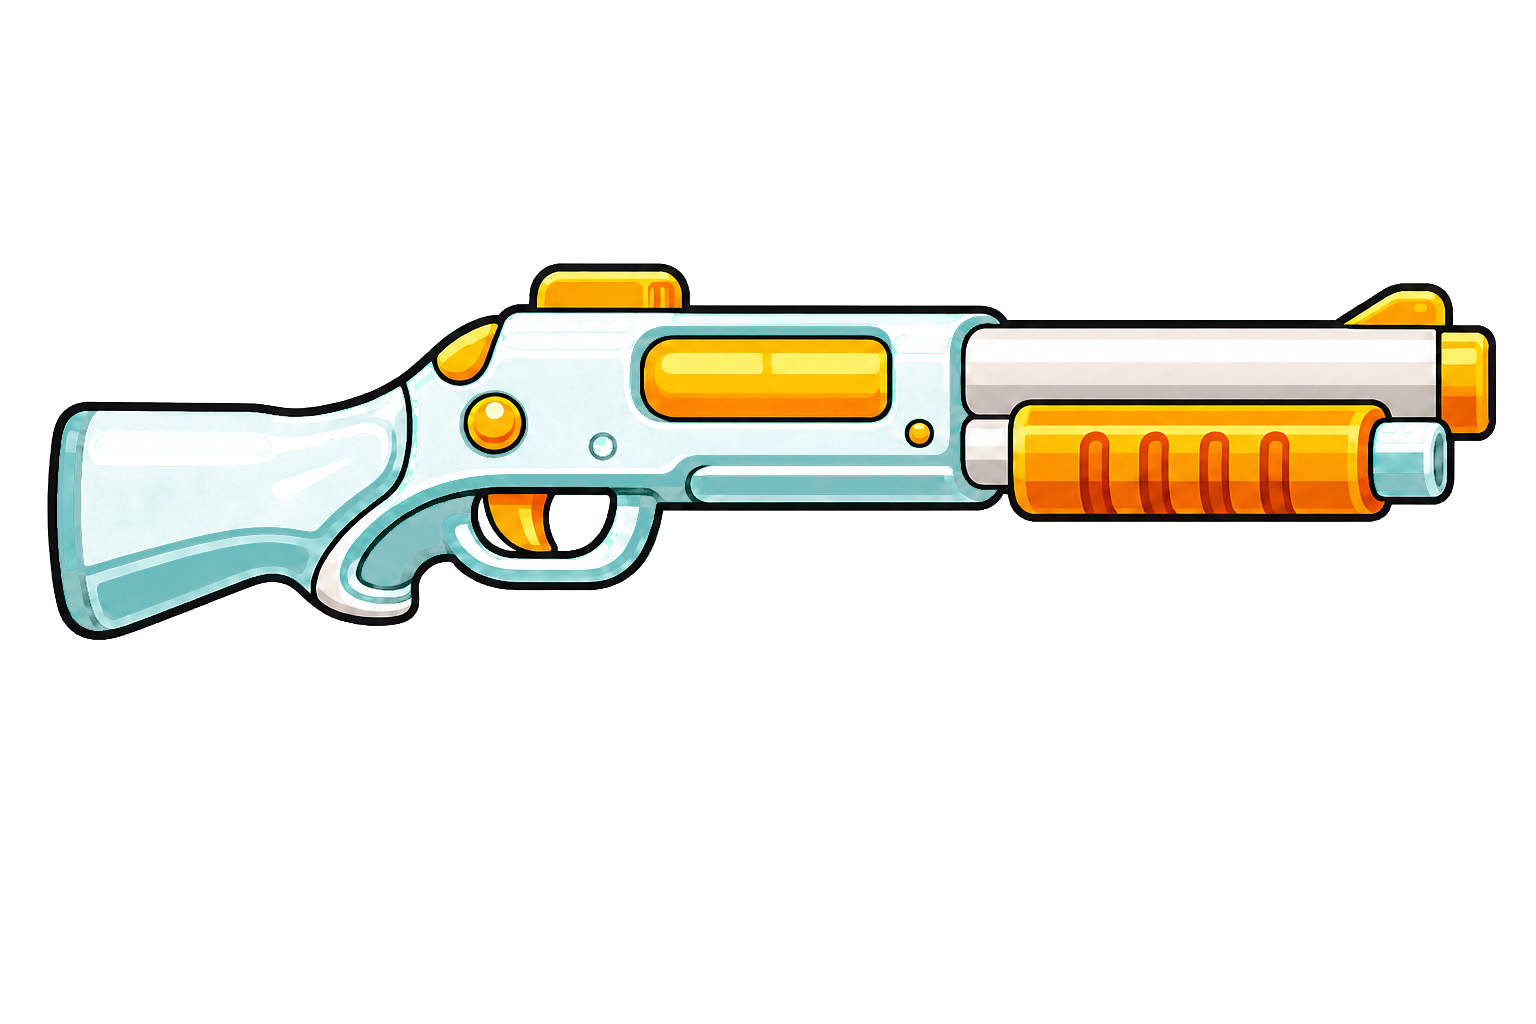
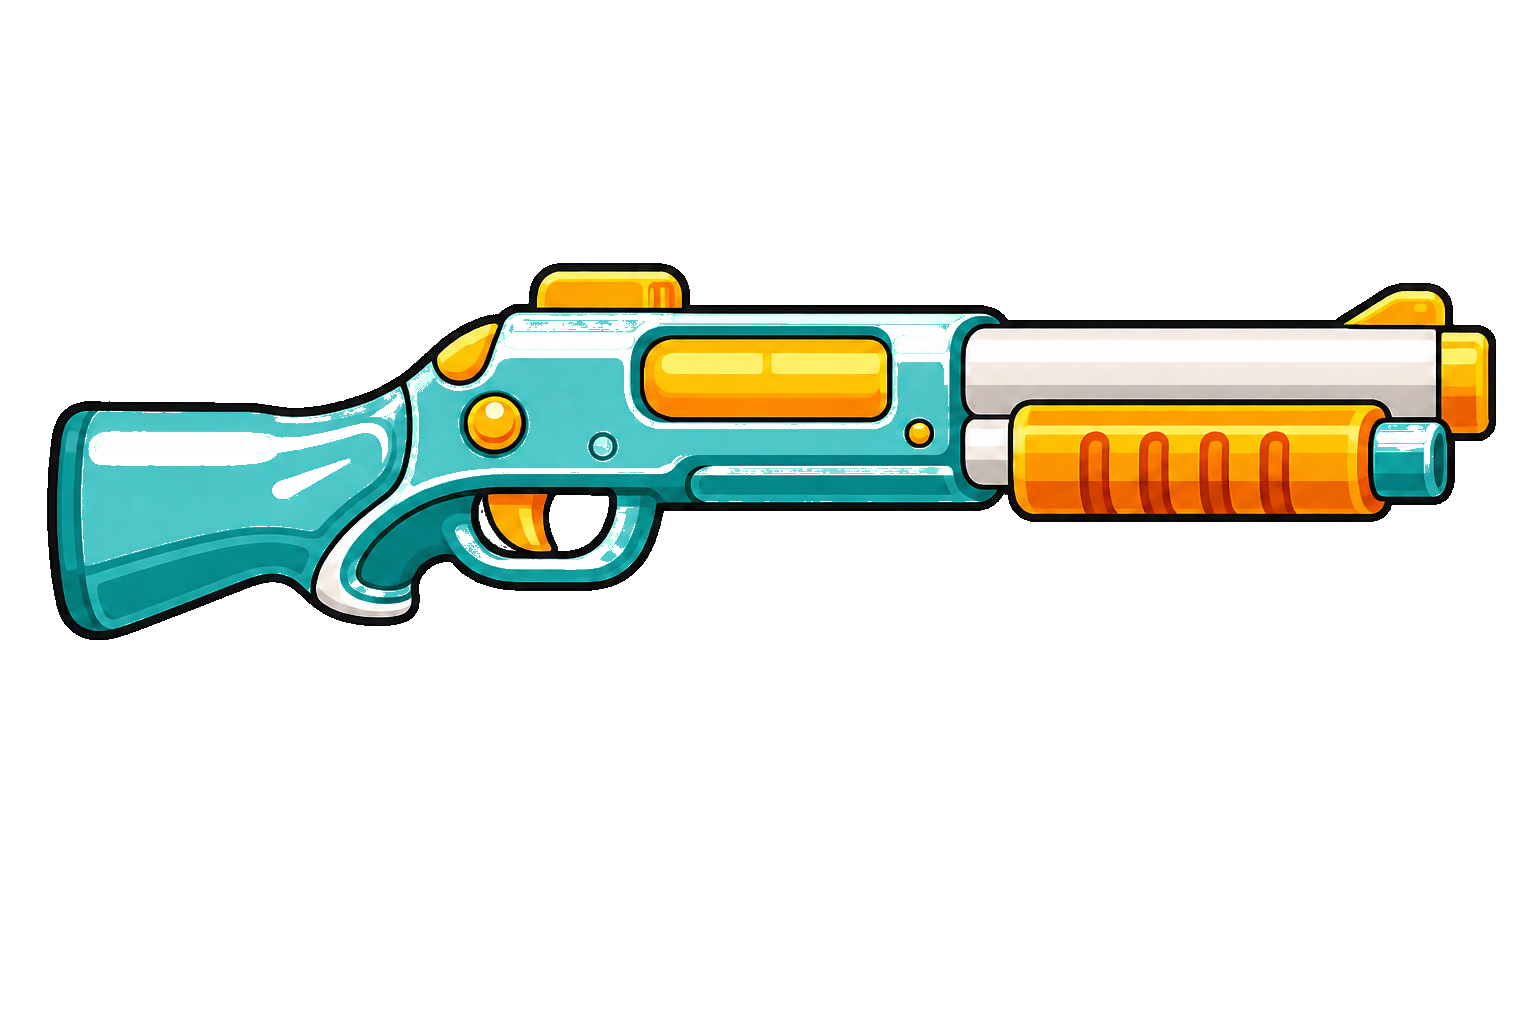
업데이트

Changed region(s): [[0.0312, 0.3125, 0.6562, 0.625], [0.875, 0.4062, 0.9688, 0.5]]

diff --git a/index.html b/index.html
@@ -593,6 +593,8 @@
     clown_doll:{name:'피코',fullName:'광대인형 · 피코',weapon:'spear',weaponName:'팝업 창',type:'치명타형',personality:'장난을 좋아하고 예측하기 어렵다. 전투 중에도 웃으며 엉뚱한 행동을 한다.',feature:'운이 터지면 순간적으로 높은 광역 피해를 냄.',stats:{hp:45,atk:58,spd:62,aspd:58,crit:15},passive:'clown',passiveName:'깜짝쇼',passiveDesc:'치명타 발생 시 20% 확률로 작은 폭발을 일으켜 주변 적에게 추가 피해.'},
     toy_knight:{name:'랜슬롯',fullName:'장난감기사 · 랜슬롯',weapon:'hammer',weaponName:'수호 해머',type:'근접 전투형',personality:'정의감이 강하고 진지하다. 자신이 진짜 기사라고 굳게 믿으며 약한 장난감을 보호하려 한다.',feature:'칼·창·해머 같은 근거리 무기와 궁합이 좋음.',stats:{hp:68,atk:65,spd:45,aspd:45,crit:7},passive:'knight',passiveName:'기사도',passiveDesc:'캐릭터 주변 일정 거리 안의 적에게 주는 피해 +15%.'}
   };
+  const ALLY_SPECIAL_WEAPONS=['red_moon','revolver','shotgun'];
+  function pickAllyWeapon(allyChar){return Math.random()<.35?ALLY_SPECIAL_WEAPONS[Math.floor(rnd(ALLY_SPECIAL_WEAPONS.length))]:CHARS[allyChar].weapon;}
   /* Character definitions are the single immutable source used by selection, player and AI. */
   const CHARACTER_BASE_STATS=Object.freeze(Object.fromEntries(Object.entries(CHARS).map(([id,c])=>[
     id,Object.freeze(Object.assign({hp:50,atk:50,spd:50,aspd:50,crit:5},c.stats||{}))
@@ -719,6 +721,21 @@
     hammer_stun:{name:'충격 스프링',icon:'💫',desc:'기절시간 +0.3초',weapon:'hammer',max:3,apply:p=>p.stun+=.3},
     hammer_quake:{name:'지진 장난감판',icon:'🌋',desc:'60% 충격파 2회',weapon:'hammer',max:1,apply:p=>p.flags.quake=true},
     hammer_fast:{name:'가벼운 손잡이',icon:'⏩',desc:'해머 게이지 속도 +18%',weapon:'hammer',max:3,apply:p=>p.weaponCd/=1.18},
+    revolver_hard:{name:'강화 탄두',icon:'🟡',desc:'리볼버 공격력 +18%',weapon:'revolver',max:5,apply:p=>p.weaponDamage*=1.18},
+    revolver_scope:{name:'정밀 조준경',icon:'🔭',desc:'리볼버 사거리 +20%',weapon:'revolver',max:3,apply:p=>p.weaponRange*=1.20},
+    revolver_speed:{name:'신속 재장전',icon:'⏩',desc:'리볼버 게이지 속도 +15%',weapon:'revolver',max:3,apply:p=>p.weaponCd/=1.15},
+    revolver_double:{name:'쌍발 약실',icon:'↔',desc:'35% 확률로 한 발 추가 격발',weapon:'revolver',max:1,apply:p=>p.flags.revolverDouble=true},
+    revolver_crit:{name:'급소 조준',icon:'🎯',desc:'치명타 확률 +10%',weapon:'revolver',max:2,apply:p=>p.crit=Math.min(.85,(p.crit||0)+.10)},
+    shotgun_hard:{name:'강화 산탄',icon:'🟠',desc:'샷건 공격력 +15%',weapon:'shotgun',max:5,apply:p=>p.weaponDamage*=1.15},
+    shotgun_pellets:{name:'추가 탄피',icon:'📦',desc:'샷건 산탄 수 +1',weapon:'shotgun',max:3,apply:p=>p.extraShots++},
+    shotgun_scope:{name:'넓은 총열',icon:'📏',desc:'샷건 사거리 +18%',weapon:'shotgun',max:3,apply:p=>p.weaponRange*=1.18},
+    shotgun_speed:{name:'퀵드로우',icon:'⏩',desc:'샷건 게이지 속도 +15%',weapon:'shotgun',max:3,apply:p=>p.weaponCd/=1.15},
+    shotgun_crit:{name:'급소 조준',icon:'🎯',desc:'치명타 확률 +8%',weapon:'shotgun',max:3,apply:p=>p.crit=Math.min(.85,(p.crit||0)+.08)},
+    redmoon_whet:{name:'붉은 숫돌',icon:'⚔',desc:'레드 문 공격력 +20%',weapon:'red_moon',max:5,apply:p=>p.weaponDamage*=1.20},
+    redmoon_range:{name:'긴 칼날 블록',icon:'📏',desc:'레드 문 베기 범위 +18%',weapon:'red_moon',max:3,apply:p=>p.weaponRange*=1.18},
+    redmoon_fast:{name:'고속 손잡이',icon:'⏩',desc:'레드 문 게이지 속도 +15%',weapon:'red_moon',max:3,apply:p=>p.weaponCd/=1.15},
+    redmoon_combo:{name:'연속 베기 태엽',icon:'✖',desc:'한 공격의 베기 횟수 +1',weapon:'red_moon',max:3,apply:p=>p.extraAttacks++},
+    redmoon_crit:{name:'붉은 달빛',icon:'🌙',desc:'치명타 피해량 +25%',weapon:'red_moon',max:2,apply:p=>p.critMul+=.25},
     overcharge:{name:'과충전 태엽',icon:'⚡',desc:'5번째 공격 피해 +100%',rare:true,max:1,apply:p=>p.flags.overcharge=true},
     crown:{name:'장난감 왕관',icon:'👑',desc:'보스 피해 +25%',rare:true,max:1,apply:p=>p.bossMul=1.25},
     invincible:{name:'무적 비눗방울',icon:'🫧',desc:'체력 30% 이하 5초 무적 1회',rare:true,max:1,apply:p=>p.flags.invincible=true},
@@ -1747,6 +1764,7 @@
     return c;
   }
   const STAGE3_BGCACHE={};
+  const STAGE3_ASPECT_CACHE={};
   function stage3Img(key){
     if(STAGE3_BGCACHE[key]) return STAGE3_BGCACHE[key];
     const im=IMG[DATA.stage3mobs?.[key]];
@@ -2952,7 +2970,7 @@
   function startGame(char){deferredRewardUIs.length=0;stopGameLoop();cancelAnimationFrame(previewRAF);state='play';showScreen(null);AudioMgr.bgm(selectedMode==='escape'?(selectedStage===2?'factoryescape':'escape'):selectedStage===1?'jungle':(selectedStage===3&&selectedMode==='defense')?'partswarehouse':'toybox');const diff=DIFFICULTIES[selectedDiff];CORE.x=WORLD/2;CORE.y=WORLD/2;CORE.vx=CORE.vy=0;CORE.maxHp=diff.core;CORE.hp=CORE.maxHp;
     const isEscape=selectedMode==='escape';if(isEscape){ESCAPE.bake();ESCAPE.resetRun();}
     const startX=isEscape?ESCAPE.cx:CORE.x,startY=isEscape?ESCAPE.startY:CORE.y+230;
-    const p=makeFighter(char,startX,startY,true,selectedWeapon),pool=CHAR_ORDER.filter(k=>k!==char),partyN=clamp(selectedParty??3,0,3),allies=[];for(let i=0;i<partyN;i++){const ang=i/Math.max(1,partyN)*TAU-Math.PI/2,allyChar=pool[i],a=makeFighter(allyChar,startX+Math.cos(ang)*(90+i*40),startY+Math.sin(ang)*(90+i*40)+40,false,CHARS[allyChar].weapon);a.guardAngle=ang;a.guardRadius=330+i*55;a.role=i;a.roamT=0;a.roamPhase=rnd(TAU);a.patrolBand=250+i*135;allies.push(a);}
+    const p=makeFighter(char,startX,startY,true,selectedWeapon),pool=CHAR_ORDER.filter(k=>k!==char),partyN=clamp(selectedParty??3,0,3),allies=[];for(let i=0;i<partyN;i++){const ang=i/Math.max(1,partyN)*TAU-Math.PI/2,allyChar=pool[i],a=makeFighter(allyChar,startX+Math.cos(ang)*(90+i*40),startY+Math.sin(ang)*(90+i*40)+40,false,pickAllyWeapon(allyChar));a.guardAngle=ang;a.guardRadius=330+i*55;a.role=i;a.roamT=0;a.roamPhase=rnd(TAU);a.patrolBand=250+i*135;allies.push(a);}
     G={p,allies,enemies:[],projectiles:[],pendingShots:[],enemyBullets:[],effects:[],particles:[],numbers:[],drops:[],chests:[],missiles:[],booms:[],fireballs:[],santaBombs:[],santaEvent:null,trainEvent:null,yoyos:[],map:createMap(),time:0,wave:1,waveT:0,waveLen:20,spawnT:0,kills:0,boss:null,bossSpawned:false,rhino:null,rhinoSpawned:false,rhinoLastWave:0,paused:false,fps:60,fpsAcc:0,fpsN:0,quality:1,mode:selectedMode,stage:selectedStage,difficulty:selectedDiff,lives:selectedMode==='survival'?5:1,anchorX:startX,anchorY:startY,chestT:24,cookieMoveT:16+rnd(7),cookieTarget:null,arena:null,bossIntro:null,luckyboxes:[],luckyT:55+rnd(35)};if(isEscape)ESCAPE.positionPartyAtStart();cam.x=p.x;cam.y=p.y;last=performance.now();if(isEscape){draw();ESCAPE.beginIntro();}else showToast(MODES[G.mode].toast,1900);startGameLoop();}
   function pauseGame(){if(state!=='play')return;stopGameLoop();state='pause';const p=G.p;$('#pauseStats').innerHTML=statHtml(G.wave,'웨이브')+statHtml(Math.round(G.fps),'FPS')+statHtml(G.kills,'몬스터 처치');$('#pauseModeText').textContent=`${MODES[G.mode].name} · ${DIFFICULTIES[G.difficulty].name} — ${MODES[G.mode].goal}`;
     const weaponRows=p.weapons.map(w=>`<div class="detail-row"><span>🔫 ${WEAPONS[w.id].name}</span><b>선택 무기</b></div>`),itemRows=Object.entries(p.items).filter(([id,n])=>n>0&&ITEMS[id]).map(([id,n])=>`<div class="detail-row"><span>${ITEMS[id].icon||'🔸'} ${ITEMS[id].name}</span><b>${n}회</b></div>`);$('#pauseLoadout').innerHTML=[...weaponRows,...itemRows].join('')||'<div class="detail-row"><span>아직 획득한 아이템 없음</span><b>-</b></div>';
@@ -3254,8 +3272,8 @@
           commitWeaponFire(p,s.weapon);
           const baseA=Math.atan2(locked.y-p.y,locked.x-p.x),mx=p.x+Math.cos(baseA)*42,my=p.y+Math.sin(baseA)*42-3;
           p.aim=baseA;p.attackWeapon=s.kind;p.attackDur=s.kind==='revolver'?.24:.28;p.attackT=p.attackDur;AudioMgr.sfx(s.kind,sg);
-          if(s.kind==='revolver'){const z=rollDamage(p,WEAPONS.revolver.damage),speed=820;addProj({type:'revolverShot',x:mx,y:my,vx:Math.cos(baseA)*speed,vy:Math.sin(baseA)*speed,r:4.5,life:1.05,dmg:z.value,crit:z.crit,color:'#ffd45e',owner:p});}
-          else{const count=WEAPONS.shotgun.shots,fan=.52;for(let n=0;n<count;n++){const aa=baseA+(n-(count-1)/2)*(fan/Math.max(1,count-1))+rnd(.018,-.018),z=rollDamage(p,WEAPONS.shotgun.damage),speed=rnd(730,660);addProj({type:'shotgunPellet',x:mx,y:my,vx:Math.cos(aa)*speed,vy:Math.sin(aa)*speed,r:4,life:.44,dmg:z.value,crit:z.crit,color:'#50c7ff',owner:p});}}
+          if(s.kind==='revolver'){const z=rollDamage(p,WEAPONS.revolver.damage),speed=820;addProj({type:'revolverShot',x:mx,y:my,vx:Math.cos(baseA)*speed,vy:Math.sin(baseA)*speed,r:4.5,life:1.05,dmg:z.value,crit:z.crit,color:'#ffd45e',owner:p});if(p.flags.revolverDouble&&Math.random()<.35){const aa=baseA+rnd(.05,-.05),z2=rollDamage(p,WEAPONS.revolver.damage);addProj({type:'revolverShot',x:mx,y:my,vx:Math.cos(aa)*speed,vy:Math.sin(aa)*speed,r:4.5,life:1.05,dmg:z2.value,crit:z2.crit,color:'#ffd45e',owner:p});}}
+          else{const count=WEAPONS.shotgun.shots+(p.extraShots||0),fan=.52;for(let n=0;n<count;n++){const aa=baseA+(n-(count-1)/2)*(fan/Math.max(1,count-1))+rnd(.018,-.018),z=rollDamage(p,WEAPONS.shotgun.damage),speed=rnd(730,660);addProj({type:'shotgunPellet',x:mx,y:my,vx:Math.cos(aa)*speed,vy:Math.sin(aa)*speed,r:4,life:.44,dmg:z.value,crit:z.crit,color:'#50c7ff',owner:p});}}
           if(s.kind==='shotgun')G.effects.push({type:'shotgunFlash',x:mx,y:my,a:baseA,t:0,life:.11,scale:1},{type:'shotgunFootFlash',x:p.x,y:p.y+18,a:0,t:0,life:.12,scale:.9});
           else muzzle(mx,my,WEAPONS[s.kind].color,baseA);
         }else if(s.kind==='redMoonSword'){p.aim=s.a;p.attackWeapon='red_moon';p.attackDur=.36;p.attackT=.36;AudioMgr.sfx('red_moon',sg);swordAttack(p,s.a,s.mul,false,'red_moon');
@@ -3639,7 +3657,7 @@
     if(e.state!=='storm'&&e.state!=='charge')resolveObstacle(e);else clampWorldBounds(e);contactDamage(e);blockGiantBody(e);}
   function blockGiantBody(e){for(const u of [G.p,...G.allies]){if(u.dead)continue;const dx=u.x-e.x,dy=u.y-e.y,d=Math.hypot(dx,dy)||1,min=e.r+u.r;if(d<min){u.x=e.x+dx/d*min;u.y=e.y+dy/d*min;}}}
 
-  function updateWave(dt){G.waveT+=dt;G.spawnT-=dt;const stage2=G.stage===2,stage3=G.stage===3;if(stage2&&G.wave>=4&&(G.wave-4)%6===0&&G.spintopLastWave!==G.wave&&G.waveT>2.0&&!G.arena&&!G.bossIntro){G.spintopLastWave=G.wave;spawnSpintopSwarm();}if(G.wave>=8&&(G.wave-8)%8===0&&G.rhinoLastWave!==G.wave&&!G.rhino&&G.waveT>1.4&&(G.time-(G.rhinoKilledAt??-999))>100&&!G.arena&&!G.bossIntro){if(stage2)spawnBulldozer();else if(stage3)spawnBigBear();else spawnRhino();}if(G.wave===15&&!stage3&&!G.bossSpawned&&!G.bossIntro&&G.waveT>1.4){startBossIntro(stage2);}if(stage3&&G.wave===15&&!G.bossSpawned&&!G.bossIntro&&G.waveT>1.4){startBossIntro(false,'partsmid');}if(stage2&&G.wave===25&&!G.bossSpawned2&&!G.bossIntro&&G.waveT>1.4){startBossIntro(stage2,'giant');}if(stage3&&G.wave===25&&!G.bossSpawned2&&!G.bossIntro&&G.waveT>1.4){startBossIntro(false,'parts');}const bossWave=!!G.arena||!!G.bossIntro||(G.boss&&!G.boss.dead),diff=DIFFICULTIES[G.difficulty];const gap=Math.max(.19,.84-G.wave*.015)*diff.spawn*(stage2?.80:1);if(G.spawnT<=0&&!bossWave){G.spawnT=gap;let type=stage2?'bluebot':stage3?'bear':'pillbug';const r=Math.random();const extraBase=G.difficulty==='hard'?.38:G.difficulty==='normal'?.23:.12,extra=Math.min(.85,extraBase+G.wave*.014),extra2=Math.min(.55,Math.max(0,G.wave-12)*.020);if(stage2){if(G.wave>=7&&r<.10)type='golem';else if(G.wave>=5&&r<.25)type='mouse';else if(G.wave>=3&&r<.45)type='greenbot';else if(r<.72)type=Math.random()<.5?'bluebot':'redbot';spawnEnemy(type,rnd(TAU));if(Math.random()<extra)spawnEnemy(G.wave>=3&&Math.random()<.30?'greenbot':(Math.random()<.5?'bluebot':'redbot'),rnd(TAU));if(Math.random()<extra2)spawnEnemy(Math.random()<.5?'bluebot':'redbot',rnd(TAU));}else if(stage3){if(G.wave>=6&&r<.12)type='onearm';else if(G.wave>=4&&r<.28)type='soldier';else if(G.wave>=3&&r<.42)type='throwbot';else if(r<.55)type='bear';else type=['bear','soldier','throwbot'][Math.floor(rnd(3))];spawnEnemy(type,rnd(TAU));if(Math.random()<.28)spawnEnemy('healbot',rnd(TAU));if(Math.random()<extra)spawnEnemy(['bear','soldier','throwbot','onearm'][Math.floor(rnd(4))],rnd(TAU));if(Math.random()<extra2)spawnEnemy('bear',rnd(TAU));}else{if(G.wave>=7&&r<.10)type='hippo';else if(G.wave>=5&&r<.25)type='fly';else if(G.wave>=3&&r<.45)type='croc';spawnEnemy(type,rnd(TAU));if(Math.random()<extra)spawnEnemy(G.wave>=3&&Math.random()<.30?'croc':'pillbug',rnd(TAU));if(Math.random()<extra2)spawnEnemy(Math.random()<.5?'croc':'pillbug',rnd(TAU));}}if(G.waveT>=G.waveLen){G.waveT=0;G.wave++;G.spawnT=0;if(G.wave>=8&&(G.wave-8)%5===0)showToast(stage2?'중간보스의 엔진 소리가 들립니다!':stage3?'거대한 발소리가 들립니다!':'중간보스의 태엽 소리가 들립니다!',2000);else if(G.wave===15)showToast('보스 웨이브가 다가옵니다!',2300);else if(stage2&&G.wave===25)showToast('거대한 진동이 느껴집니다...',2300);else if(stage3&&G.wave===24)showToast('창고 안쪽이 조용해졌습니다...',2300);else showToast(`WAVE ${G.wave}`,1100);}}
+  function updateWave(dt){G.waveT+=dt;G.spawnT-=dt;const stage2=G.stage===2,stage3=G.stage===3;if(stage2&&G.wave>=4&&(G.wave-4)%6===0&&G.spintopLastWave!==G.wave&&G.waveT>2.0&&!G.arena&&!G.bossIntro){G.spintopLastWave=G.wave;spawnSpintopSwarm();}if(G.wave>=8&&(G.wave-8)%8===0&&G.rhinoLastWave!==G.wave&&!G.rhino&&G.waveT>1.4&&(G.time-(G.rhinoKilledAt??-999))>100&&!G.arena&&!G.bossIntro){if(stage2)spawnBulldozer();else if(stage3)spawnBigBear();else spawnRhino();}if(G.wave===15&&!stage3&&!G.bossSpawned&&!G.bossIntro&&G.waveT>1.4){startBossIntro(stage2);}if(stage3&&G.wave===15&&!G.bossSpawned&&!G.bossIntro&&G.waveT>1.4){startBossIntro(false,'partsmid');}if(stage2&&G.wave===25&&!G.bossSpawned2&&!G.bossIntro&&G.waveT>1.4){startBossIntro(stage2,'giant');}if(stage3&&G.wave===25&&!G.bossSpawned2&&!G.bossIntro&&G.waveT>1.4){startBossIntro(false,'parts');}const bossWave=!!G.arena||!!G.bossIntro||(G.boss&&!G.boss.dead),diff=DIFFICULTIES[G.difficulty];const gap=Math.max(.19,.84-G.wave*.015)*diff.spawn*(stage2?.80:1);if(G.spawnT<=0&&!bossWave){G.spawnT=gap;let type=stage2?'bluebot':stage3?'bear':'pillbug';const r=Math.random();const extraBase=G.difficulty==='hard'?.38:G.difficulty==='normal'?.23:.12,extra=Math.min(.85,extraBase+G.wave*.014),extra2=Math.min(.55,Math.max(0,G.wave-12)*.020);if(stage2){if(G.wave>=7&&r<.10)type='golem';else if(G.wave>=5&&r<.25)type='mouse';else if(G.wave>=3&&r<.45)type='greenbot';else if(r<.72)type=Math.random()<.5?'bluebot':'redbot';spawnEnemy(type,rnd(TAU));if(Math.random()<extra)spawnEnemy(G.wave>=3&&Math.random()<.30?'greenbot':(Math.random()<.5?'bluebot':'redbot'),rnd(TAU));if(Math.random()<extra2)spawnEnemy(Math.random()<.5?'bluebot':'redbot',rnd(TAU));}else if(stage3){if(G.wave>=6&&r<.12)type='onearm';else if(G.wave>=4&&r<.36)type='soldier';else if(G.wave>=3&&r<.42)type='throwbot';else if(r<.55)type='bear';else type=['bear','soldier','soldier'][Math.floor(rnd(3))];spawnEnemy(type,rnd(TAU));if(Math.random()<.28)spawnEnemy('healbot',rnd(TAU));if(Math.random()<extra)spawnEnemy(['bear','soldier','soldier','onearm'][Math.floor(rnd(4))],rnd(TAU));if(Math.random()<extra2)spawnEnemy('bear',rnd(TAU));}else{if(G.wave>=7&&r<.10)type='hippo';else if(G.wave>=5&&r<.25)type='fly';else if(G.wave>=3&&r<.45)type='croc';spawnEnemy(type,rnd(TAU));if(Math.random()<extra)spawnEnemy(G.wave>=3&&Math.random()<.30?'croc':'pillbug',rnd(TAU));if(Math.random()<extra2)spawnEnemy(Math.random()<.5?'croc':'pillbug',rnd(TAU));}}if(G.waveT>=G.waveLen){G.waveT=0;G.wave++;G.spawnT=0;if(G.wave>=8&&(G.wave-8)%5===0)showToast(stage2?'중간보스의 엔진 소리가 들립니다!':stage3?'거대한 발소리가 들립니다!':'중간보스의 태엽 소리가 들립니다!',2000);else if(G.wave===15)showToast('보스 웨이브가 다가옵니다!',2300);else if(stage2&&G.wave===25)showToast('거대한 진동이 느껴집니다...',2300);else if(stage3&&G.wave===24)showToast('창고 안쪽이 조용해졌습니다...',2300);else showToast(`WAVE ${G.wave}`,1100);}}
 
   function updateCookie(dt){if(G.mode!=='hunt')return;G.cookieMoveT-=dt;if(!G.cookieTarget&&G.cookieMoveT<=0){for(let tries=0;tries<20;tries++){let x,y;if(G.stage===2){const a=rnd(TAU),rr=Math.sqrt(Math.random());x=CORE.x+Math.cos(a)*rr*(PUZZLE2B_ELLIPSE.a-160);y=CORE.y+Math.sin(a)*rr*(PUZZLE2B_ELLIPSE.b-160);}else{const a=rnd(TAU),d=rnd(900,520);x=clamp(CORE.x+Math.cos(a)*d,300,WORLD-300);y=clamp(CORE.y+Math.sin(a)*d,300,WORLD-300);}if(!blockedAt(x,y,CORE.r+30)&&!inWater(x,y,CORE.r+40)){G.cookieTarget={x,y};showToast('🍪 쿠키가 이동합니다!',1500);break;}}G.cookieMoveT=18+rnd(9);}if(G.cookieTarget){const dx=G.cookieTarget.x-CORE.x,dy=G.cookieTarget.y-CORE.y,d=Math.hypot(dx,dy)||1,sp=Math.min(170,d*2.1);CORE.vx=dx/d*sp;CORE.vy=dy/d*sp;CORE.x+=CORE.vx*dt;CORE.y+=CORE.vy*dt;if(G.stage===2)resolveObstacle(CORE);G.anchorX=CORE.x;G.anchorY=CORE.y;if(d<12){CORE.x=G.cookieTarget.x;CORE.y=G.cookieTarget.y;CORE.vx=CORE.vy=0;G.cookieTarget=null;}}}
 
@@ -4117,15 +4135,16 @@
     }else if((e.type==='bear'||e.type==='bigbear')&&DATA.stage3mobs){
       // 두 포즈 이미지가 각각 통짜 전신 그림(다리 위치만 다름)이라, 부위별로 잘라 합성하지 않고
       // 그대로 번갈아 보여주는 2프레임 걷기 애니메이션으로 처리한다.
+      // 프레임마다 이미지 자체의 세로/가로 비율이 살짝 달라서, 매번 그 비율로 높이를 다시 계산하면
+      // 발만 바뀌어야 할 게 몸통까지 커졌다 작아졌다 하는 것처럼 보인다 — 기준 프레임 하나의 비율로
+      // 고정해서 크기가 절대 흔들리지 않게 한다.
       const pref=e.type,cyc=e.anim*.85,useL=Math.sin(cyc)>0;
       const im=stage3Img(pref+(useL?'_footL':'_footR'));
+      STAGE3_ASPECT_CACHE[pref]=STAGE3_ASPECT_CACHE[pref]||(stage3Img(pref+'_footR')?stage3Img(pref+'_footR').height/stage3Img(pref+'_footR').width:1.4);
       ctx.scale(e.facing>0?-1:1,1);
       if(im){
-        const w=e.r*3.5,h=w*(im.height/im.width),bob=Math.abs(Math.sin(cyc*2))*e.r*.05;
-        ctx.drawImage(im,-w/2,-h/2-bob,w,h);
-        if(Math.abs(Math.sin(cyc))>.92){
-          G.effects.push({type:'rhinoShock',x:e.x,y:e.y+e.r*.7,rad:e.type==='bigbear'?54:34,color:'#c9a876',t:0,life:.28});
-        }
+        const w=e.r*3.5,h=w*STAGE3_ASPECT_CACHE[pref];
+        ctx.drawImage(im,-w/2,-h/2,w,h);
       }
     }else if((e.type==='throwbot'||e.type==='soldier')&&DATA.stage3mobs){
       const attacking=(e.atkAnimT||0)>0;
